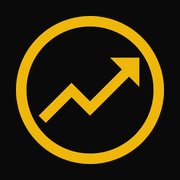
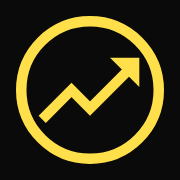
Add files via upload
logo cor amarelo claro

Changed region(s): [[0.0833, 0.0833, 0.9167, 0.9167]]

diff --git a/webapp-src/src/ui/Marca.tsx b/webapp-src/src/ui/Marca.tsx
@@ -8,9 +8,9 @@ export function Marca({ className = '' }: { className?: string }) {
   return (
     <a className={`marca ${className}`} href="../" aria-label="Carteira Ideal, voltar ao início">
       <svg className="marca-logo" viewBox="0 0 96 96" aria-hidden="true">
-        <circle cx="48" cy="48" r="44.6" fill="#0a0a0a" stroke="#efb70a" strokeWidth="6.8" />
-        <path d="M17 67 36 48 48 60 75 33" fill="none" stroke="#efb70a" strokeWidth="6.6" strokeLinecap="butt" strokeLinejoin="miter" />
-        <path d="M61 27H80V46Z" fill="#efb70a" />
+        <circle cx="48" cy="48" r="44.6" fill="#0a0a0a" stroke="#ffe04a" strokeWidth="6.8" />
+        <path d="M17 67 36 48 48 60 75 33" fill="none" stroke="#ffe04a" strokeWidth="6.6" strokeLinecap="butt" strokeLinejoin="miter" />
+        <path d="M61 27H80V46Z" fill="#ffe04a" />
       </svg>
       <span className="marca-nome">Carteira Ideal</span>
     </a>

diff --git a/webapp-src/index.html b/webapp-src/index.html
@@ -31,7 +31,7 @@
     <meta property="og:locale" content="pt_BR" />
     <meta property="og:title" content="App Carteira Ideal: perfil de investidor e simuladores grátis" />
     <meta property="og:description" content="Perfil de investidor, carteira de referência e simuladores de Tesouro Direto, FII, BDR e ETF. Conteúdo educacional." />
-    <meta property="og:image" content="https://carteiraideal.app.br/assets/og-image.png?v=2" />
+    <meta property="og:image" content="https://carteiraideal.app.br/assets/og-image.png?v=3" />
     <meta property="og:url" content="https://carteiraideal.app.br/app/" />
     <meta name="twitter:card" content="summary_large_image" />
     <!-- D20: permite instalar o app no computador (Chrome/Edge: ícone "Instalar" na barra de

diff --git a/index.html b/index.html
@@ -27,7 +27,7 @@
       property="og:description"
       content="Descubra seu perfil de investidor e uma carteira de referência, organize o mês e saia das dívidas. Simuladores de Tesouro, FII, BDR e ETF. Conteúdo educacional."
     />
-    <meta property="og:image" content="https://carteiraideal.app.br/assets/og-image.png?v=2" />
+    <meta property="og:image" content="https://carteiraideal.app.br/assets/og-image.png?v=3" />
     <meta property="og:url" content="https://carteiraideal.app.br/" />
     <meta name="twitter:card" content="summary_large_image" />
 

diff --git a/docs/07-registro-de-decisoes.md b/docs/07-registro-de-decisoes.md
@@ -999,3 +999,11 @@ Conferido em navegador (390 px, temas claro e escuro) com dados simulados no for
 **Testes.** 1.230 → 1.258 no app (motor da moto, tela da moto, hub e estado) e 182 → 184 nos scripts (página de SEO da moto; contagem de páginas 34 → 35).
 
 **Consequência.** O Simule Bens tem os três bens previstos. O próximo passo natural não é um novo bem, e sim fechar as pendências de fonte (série do Banco Central, FIPE) e decidir sobre a moto de trabalho.
+
+## D49 — Logo no amarelo claro (04/10/2026)
+
+**Pedido.** Trocar a cor da logo do Carteira Ideal, em todos os lugares do app e do site, pelo amarelo da imagem enviada pelo responsável. Só a cor: o desenho (aro, seta e ponta) continua exatamente o mesmo.
+
+**O que mudou.** Aro e seta passam de dourado #efb70a para amarelo #ffe04a (cor medida na imagem de referência). Arquivos: `assets/logo-mark.svg`, `assets/favicon.svg`, `webapp-src/public/favicon.svg`, `webapp-src/src/ui/Marca.tsx`, os ícones PNG (`assets/apple-touch-icon.png`, `webapp-src/public/icon-192.png`, `icon-512.png`, `icon-maskable-512.png`) e a logo dentro de `assets/og-image.png`. A versão da imagem de compartilhamento passou de `?v=2` para `?v=3` para as redes sociais buscarem a nova.
+
+**Não mudou.** O desenho da logo e o miolo escuro do círculo. O amarelo dos botões e destaques do app continua #e8cb00 (decisão do responsável: só a logo usa o #ffe04a). Tamanho e posição da logo em cada tela, textos e layout.
